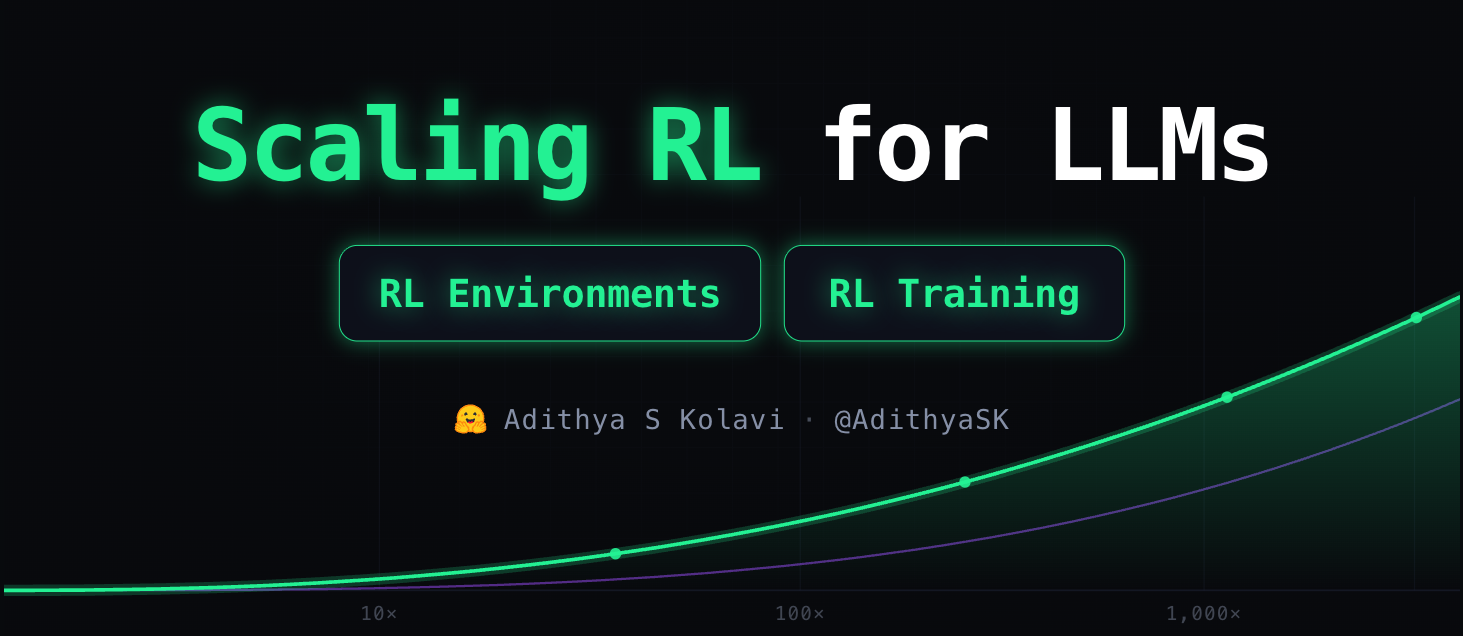
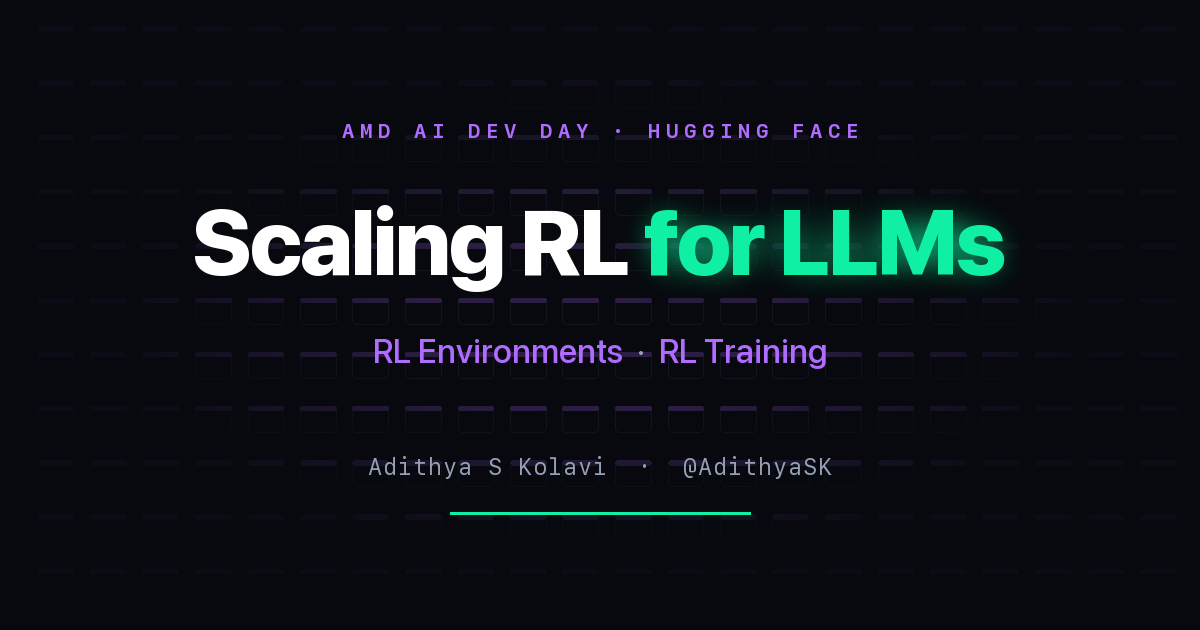
readme: 3-column content grid, richer projects section, recipes-wanted
- content grid is now 3 columns; Multi-Harness Training is live on a Space
  (AdithyaSK/multi-harness-training-slides), so it links and badges as deployed
- projects section: generated table now carries env / framework / Space counts,
  plus a per-project card with the environment breakdown for 00 and the
  training story for 01
- move "which framework should I use?" out of the root README into project 00,
  merged with the overlapping Framework Cheat Sheet into one table
- CONTRIBUTING leads with an explicit call for end-to-end recipes: what one is,
  that partial ones are welcome, and which domains are uncovered. Adds an
  "adding a project" section. Root README echoes the ask.

Deck social cards, both regenerated from the decks themselves:
- scaling-rl-amd still had the 101 deck's hard-coded card content from when it
  was forked, so it rendered "RL Environments 101"; now renders its own talk
- multi-harness card regenerated with the accent/fit fix

Claude-Session: https://claude.ai/code/session_01MLWbS4j4R3EB69BpMYbjvc

diff --git a/content/slides/scaling-rl-amd/scripts/make_og.py b/content/slides/scaling-rl-amd/scripts/make_og.py
@@ -119,19 +119,19 @@ def main():
     f_sub = font(SFNS, 34, "Medium")
     f_by = font(MONO, 23, "Regular")
 
-    eyebrow = "HUGGING FACE · RL ENVIRONMENTS"
+    eyebrow = "AMD AI DEV DAY · HUGGING FACE"
     ey_w = text_width(d, eyebrow, f_eyebrow, 6)
     draw_tracked(d, ((W - ey_w) / 2, 118), eyebrow, f_eyebrow, LAVENDER, 6)
 
-    title = [("RL Environments ", f_title, WHITE), ("101", f_title, EMERALD)]
-    glow(img, lambda dd: draw_runs(dd, 186, [("RL Environments ", f_title, (0, 0, 0, 0)), ("101", f_title, EMERALD)], -2))
+    title = [("Scaling RL ", f_title, WHITE), ("for LLMs", f_title, EMERALD)]
+    glow(img, lambda dd: draw_runs(dd, 186, [("Scaling RL ", f_title, (0, 0, 0, 0)), ("for LLMs", f_title, EMERALD)], -2))
     d = ImageDraw.Draw(img)
     draw_runs(d, 186, title, -2)
 
     sub = [
-        ("From ", f_sub, TEXT_MUTED),
-        ("“What Is an Env?”", f_sub, LAVENDER),
-        (" to Training Your Own", f_sub, TEXT_MUTED),
+        ("RL Environments", f_sub, LAVENDER),
+        ("  ·  ", f_sub, TEXT_DIM),
+        ("RL Training", f_sub, LAVENDER),
     ]
     draw_runs(d, 330, sub)
 

diff --git a/tools/build_index.py b/tools/build_index.py
@@ -50,12 +50,26 @@ def load_projects() -> list[dict]:
 
 
 def render_projects_table(projects: list[dict]) -> str:
-    rows = ["| # | Project | What you get | Status |", "|---|---|---|---|"]
+    rows = [
+        "| # | Project | What you get | Envs | Frameworks | Deployed | Status |",
+        "|---|---|---|:--:|:--:|:--:|---|",
+    ]
     for p in projects:
         folder = p["_dir"].name
         num = folder.split("-", 1)[0]
+        envs = p.get("envs") or []
+        frameworks = {f for e in envs for f in (e.get("frameworks") or {})}
+        spaces = {
+            spec["space"]
+            for e in envs
+            for spec in (e.get("frameworks") or {}).values()
+            if spec.get("space")
+        }
         status = STATUS_ICON.get(p.get("status", ""), p.get("status", ""))
-        rows.append(f"| **{num}** | **[{p['title']}](./{folder}/)** | {p['tagline']} | {status} |")
+        rows.append(
+            f"| **{num}** | **[{p['title']}](./{folder}/)** | {p['tagline']} "
+            f"| {len(envs)} | {len(frameworks)} | {len(spaces)} | {status} |"
+        )
     return "\n".join(rows)
 
 

diff --git a/README.md b/README.md
@@ -57,46 +57,85 @@ demos on **[🤗 huggingface.co/HuggingEnvs](https://huggingface.co/HuggingEnvs)
 
 ## Projects
 
-Each numbered folder is self-contained — its own README, environments, and results. They read in order
-but stand alone.
+Each numbered folder is a **self-contained, end-to-end project** — its own environments, notebooks,
+results and README, plus the Hub repos it owns. They read in order but stand alone.
 
 <!-- BEGIN:projects -->
-| # | Project | What you get | Status |
-|---|---|---|---|
-| **00** | **[RL Environments 101](./00-environments-101/)** | Three environments, six frameworks, side by side. | ✅ stable |
-| **01** | **[LaTeX OCR](./01-latex-ocr/)** | Train Qwen3-VL-2B to read math images into LaTeX, with a verifiable reward. | 📓 notebook |
+| # | Project | What you get | Envs | Frameworks | Deployed | Status |
+|---|---|---|:--:|:--:|:--:|---|
+| **00** | **[RL Environments 101](./00-environments-101/)** | Three environments, six frameworks, side by side. | 3 | 6 | 8 | ✅ stable |
+| **01** | **[LaTeX OCR](./01-latex-ocr/)** | Train Qwen3-VL-2B to read math images into LaTeX, with a verifiable reward. | 1 | 1 | 1 | 📓 notebook |
 <!-- END:projects -->
-
----
-
-## Articles &amp; talks
-
-Long-form writing and conference decks. Sources live in [`content/`](./content/); each ships to the Hub
-as a Space.
 
 <table>
 <tr>
 <td width="50%" valign="top">
 
-<a href="https://huggingface.co/spaces/AdithyaSK/rl-environments-guide"><img src="./assets/content/guide.png" alt="The ultimate guide to RL environments: building and scaling them in the LLM era"></a>
+### [00 · RL Environments 101](./00-environments-101/)
 
-### [The ultimate guide to RL environments](https://huggingface.co/spaces/AdithyaSK/rl-environments-guide)
+**One env, six ways.** Three environments, each implemented six times — same logic, six framework
+dialects. Diff any two `server.py` files and the differences *are* the lesson.
 
-![Article](https://img.shields.io/badge/-article-4F46E5) ![Space](https://img.shields.io/badge/-live%20space-FFD21E)
+| Environment | Turns | Tools | Backend |
+|---|---|---|---|
+| [**Jupyter agent**](./00-environments-101/envs/jupyter/) | multi | 4 | E2B sandbox, real code execution |
+| [**Wordle**](./00-environments-101/envs/wordle/) | multi | 1 | pure Python, no backend |
+| [**Desktop**](./00-environments-101/envs/desktop/) | multi | 19 | E2B Desktop, vision-driven |
 
-Building and scaling RL environments in the LLM era. The anatomy of RL environment frameworks: how
-they're built, how rewards are wired, and how they scale to thousands of concurrent sessions.
-
-<sub>📂 [`content/articles/rl-environments-guide/`](./content/articles/rl-environments-guide/)</sub>
+Across `openenv` · `ors` · `nemo_gym` · `verifiers` · `skyrl_gym` · `gem` — 18 implementations, 8 of
+them deployed as Spaces you can hit right now.
 
 </td>
 <td width="50%" valign="top">
 
+### [01 · LaTeX OCR](./01-latex-ocr/)
+
+**The full loop.** Project 00 shows you what an environment *is*; this one takes a single environment
+all the way to a trained model.
+
+Qwen3-VL-2B learns to read rendered math into LaTeX with GRPO, scored by a reward served from a live
+[OpenEnv Space](https://huggingface.co/spaces/AdithyaSK/latex-ocr-env). Correctness is checkable —
+render the prediction, compare — so the reward is honest and there is very little to game.
+
+Runs on a GPU you spin up in [one command](#quickstart). No cluster, no local GPU.
+
+</td>
+</tr>
+</table>
+
+> **More coming.** Each new project is another end-to-end recipe: an environment, a training run, and
+> the artifacts on the Hub. [Proposals and contributions welcome →](./CONTRIBUTING.md)
+
+---
+
+## Articles &amp; talks
+
+Long-form writing and conference talks. Sources live in [`content/`](./content/); each one ships to the
+Hub as a Space.
+
+<table>
+<tr>
+<td width="33%" valign="top">
+
+<a href="https://huggingface.co/spaces/AdithyaSK/rl-environments-guide"><img src="./assets/content/guide.png" alt="The ultimate guide to RL environments: building and scaling them in the LLM era"></a>
+
+#### [The Ultimate Guide to RL Environments](https://huggingface.co/spaces/AdithyaSK/rl-environments-guide)
+
+![Article](https://img.shields.io/badge/-article-4F46E5) ![Live](https://img.shields.io/badge/-live%20space-FFD21E)
+
+Building and scaling RL environments in the LLM era — how frameworks are built, how rewards are
+wired, and how they scale to thousands of concurrent sessions.
+
+<sub>📂 [`content/articles/rl-environments-guide/`](./content/articles/rl-environments-guide/)</sub>
+
+</td>
+<td width="33%" valign="top">
+
 <a href="https://huggingface.co/spaces/AdithyaSK/rl-environments-101-slides"><img src="./assets/content/rl-environments-101.png" alt="RL Environments 101 — from what is an env to training your own"></a>
 
-### [RL Environments 101](https://huggingface.co/spaces/AdithyaSK/rl-environments-101-slides)
+#### [RL Environments 101](https://huggingface.co/spaces/AdithyaSK/rl-environments-101-slides)
 
-![Talk](https://img.shields.io/badge/-talk-10B981) ![Space](https://img.shields.io/badge/-live%20space-FFD21E)
+![Talk](https://img.shields.io/badge/-talk-10B981) ![Live](https://img.shields.io/badge/-live%20space-FFD21E)
 
 From "what is an env?" to training your own. RL fundamentals → environment anatomy → OpenEnv →
 training with TRL. The original 30-minute talk.
@@ -104,35 +143,39 @@ training with TRL. The original 30-minute talk.
 <sub>📂 [`content/slides/rl-environments-101/`](./content/slides/rl-environments-101/)</sub>
 
 </td>
-</tr>
-<tr>
-<td width="50%" valign="top">
+<td width="33%" valign="top">
 
 <a href="https://huggingface.co/spaces/AdithyaSK/scaling-rl-for-llms-amd-ai-dev-day"><img src="./assets/content/scaling-rl.png" alt="Scaling RL for LLMs — RL environments and RL training, AMD AI Dev Day"></a>
 
-### [Scaling RL for LLMs](https://huggingface.co/spaces/AdithyaSK/scaling-rl-for-llms-amd-ai-dev-day)
+#### [Scaling RL for LLMs](https://huggingface.co/spaces/AdithyaSK/scaling-rl-for-llms-amd-ai-dev-day)
 
-![Talk](https://img.shields.io/badge/-talk-10B981) ![Space](https://img.shields.io/badge/-live%20space-FFD21E) ![AMD AI Dev Day](https://img.shields.io/badge/-AMD%20AI%20Dev%20Day-ED1C24)
+![Talk](https://img.shields.io/badge/-talk-10B981) ![Live](https://img.shields.io/badge/-live%20space-FFD21E) ![AMD AI Dev Day](https://img.shields.io/badge/-AMD%20AI%20Dev%20Day-ED1C24)
 
-RL environments and RL training — what an environment actually is, how reward hacking happens, and
-how to build and train against your own. The 20-minute cut.
+What an environment actually is, how reward hacking happens, and how to build and train against your
+own. The 20-minute cut, for AMD AI Dev Day.
 
 <sub>📂 [`content/slides/scaling-rl-amd/`](./content/slides/scaling-rl-amd/)</sub>
 
 </td>
-<td width="50%" valign="top">
+</tr>
+<tr>
+<td width="33%" valign="top">
 
-<img src="./assets/content/multi-harness-training.png" alt="Multi-Harness Training — OpenEnv and Harbor">
+<a href="https://huggingface.co/spaces/AdithyaSK/multi-harness-training-slides"><img src="./assets/content/multi-harness-training.png" alt="Multi-Harness Training — OpenEnv and Harbor"></a>
 
-### Multi-Harness Training
+#### [Multi-Harness Training](https://huggingface.co/spaces/AdithyaSK/multi-harness-training-slides)
 
-![Talk](https://img.shields.io/badge/-talk-10B981) ![Not deployed](https://img.shields.io/badge/-not%20deployed-6B7280)
+![Talk](https://img.shields.io/badge/-talk-10B981) ![Live](https://img.shields.io/badge/-live%20space-FFD21E)
 
 OpenEnv × Harbor — why an environment's failure model decides whether it can be trained against:
 in-process agent loops vs. an HTTP boundary, and what it takes to capture trainable tokens.
 
 <sub>📂 [`content/slides/multi-harness-training/`](./content/slides/multi-harness-training/)</sub>
 
+</td>
+<td width="33%" valign="top">
+</td>
+<td width="33%" valign="top">
 </td>
 </tr>
 </table>
@@ -185,24 +228,6 @@ npx skills add adithya-s-k/HuggingEnvs
 
 ---
 
-## Which framework should I use?
-
-The short version. The long version is [project 00](./00-environments-101/) and
-[the guide](https://huggingface.co/spaces/AdithyaSK/rl-environments-guide).
-
-| Framework | Type | Reward model | Deployable | Best for |
-|---|---|---|---|---|
-| **OpenEnv** | HTTP (MCP) | external | ✅ Docker / HF Space | Long-running sandboxes, MCP ecosystem |
-| **ORS** | HTTP (REST+SSE) | per tool call | ✅ Docker / HF Space | Server-decided rewards, OpenReward marketplace |
-| **NeMo Gym** | HTTP (REST) | post-episode `/verify` | ✅ Docker / HF Space | NVIDIA stack, Ray-based scaling |
-| **Verifiers** | in-process | `Rubric` system | ⚙ | Fast prototyping, bundled datasets |
-| **SkyRL Gym** | in-process | `step()` returns | ⚙ | Gym-style RL, SkyRL training stack |
-| **GEM** | in-process | `step()` returns | ⚙ | Gymnasium API, pure-Python games |
-
-**Rule of thumb:** prototype in Verifiers, productionise in OpenEnv or ORS.
-
----
-
 ## Repository layout
 
 ```
@@ -224,8 +249,16 @@ Inside a project the folders always mean the same thing: `envs/` (implementation
 
 ## Contributing
 
-New environments, new framework ports, and reproductions that disagree with ours are all welcome —
-see **[CONTRIBUTING.md](./CONTRIBUTING.md)**. The fastest path is the `rl-env-from-description` skill.
+**We're actively looking for new end-to-end recipes** — a task, an environment, a training run, and
+honest results. Domains we don't cover yet are especially welcome: web browsing, SQL, games,
+robotics sims, tool-use over real APIs, long-horizon software engineering.
+
+Half-finished counts. A recipe with real numbers and a gap beats a polished one nobody ran — open an
+issue and we'll help you land it. New framework ports, reproductions that *disagree* with ours, and
+corrections to the guide are all just as welcome.
+
+See **[CONTRIBUTING.md](./CONTRIBUTING.md)**. The fastest path to a new environment is the
+`rl-env-from-description` skill.
 
 ## Citation
 

diff --git a/00-environments-101/README.md b/00-environments-101/README.md
@@ -89,18 +89,25 @@ What is implemented and verified, per env and framework. Generated from `project
 | **desktop** | 19 | `e2b-desktop` | ✅ | ✅ | ⚙ deployed | ✅ | ✅ | ✅ |
 <!-- END:matrix -->
 
-## Framework Cheat Sheet
+## Which framework should I use?
 
-| Framework  | Type             | Tool syntax            | Reward model     | Deployable | Best for |
-|------------|------------------|------------------------|------------------|------------|----------|
-| **OpenEnv**    | HTTP (MCP)       | `@mcp.tool`            | External         | ✅ Docker / HF Space | Long-running sandboxes; MCP ecosystem |
-| **ORS**        | HTTP (REST+SSE)  | `@tool` + Pydantic     | Per-tool-call    | ✅ Docker / HF Space / OpenReward | Server-decided rewards; OpenReward marketplace |
-| **NeMo Gym**   | HTTP (REST)      | `app.post()`           | Post-episode `/verify` | ✅ Docker / HF Space | NVIDIA stack; Ray-based scaling |
-| **Verifiers**  | in-process       | plain Python `def`     | `Rubric` system  | ⚙          | Fast prototyping; bundled datasets |
-| **SkyRL Gym**  | in-process       | inside `step()`        | `step()` returns | ⚙          | Gym-style RL; SkyRL training stack |
-| **GEM**        | in-process       | inside `step()`        | `step()` returns | ⚙          | Gymnasium API; pure-Python games |
+The cheat sheet keeps the `Tool syntax` column, which is where the six frameworks differ most in
+day-to-day code.
 
-HTTP frameworks (OpenEnv, ORS, NeMo Gym) wrap a remote server. In-process frameworks (Verifiers, SkyRL, GEM) run the env class in the same Python process as the trainer or rollout script.
+| Framework | Type | Tool syntax | Reward model | Deployable | Best for |
+|---|---|---|---|---|---|
+| **OpenEnv** | HTTP (MCP) | `@mcp.tool` | external | ✅ Docker / HF Space | Long-running sandboxes; MCP ecosystem |
+| **ORS** | HTTP (REST+SSE) | `@tool` + Pydantic | per tool call | ✅ Docker / HF Space / OpenReward | Server-decided rewards; OpenReward marketplace |
+| **NeMo Gym** | HTTP (REST) | `app.post()` | post-episode `/verify` | ✅ Docker / HF Space | NVIDIA stack; Ray-based scaling |
+| **Verifiers** | in-process | plain Python `def` | `Rubric` system | ⚙ | Fast prototyping; bundled datasets |
+| **SkyRL Gym** | in-process | inside `step()` | `step()` returns | ⚙ | Gym-style RL; SkyRL training stack |
+| **GEM** | in-process | inside `step()` | `step()` returns | ⚙ | Gymnasium API; pure-Python games |
+
+HTTP frameworks (OpenEnv, ORS, NeMo Gym) wrap a remote server. In-process frameworks (Verifiers,
+SkyRL, GEM) run the env class in the same Python process as the trainer or rollout script.
+
+**Rule of thumb:** prototype in Verifiers, productionise in OpenEnv or ORS. The long version is the
+rest of this page and [the guide](https://huggingface.co/spaces/AdithyaSK/rl-environments-guide).
 
 ---
 

diff --git a/CONTRIBUTING.md b/CONTRIBUTING.md
@@ -1,12 +1,36 @@
 # Contributing
 
-The most useful contributions here, roughly in order:
+**We are actively looking for new end-to-end recipes.** That's the single most valuable thing you can
+contribute here, and it's what this repo is for.
 
-1. **A new environment** — a task nobody has modelled yet.
+## What an end-to-end recipe is
+
+A complete, reproducible path from *"here is a task"* to *"here is a trained model"*:
+
+1. **An environment** — the task, the tools, the observations, the reward.
+2. **A rollout** that demonstrably works against it, with a trajectory a human can read.
+3. **A training run** — config, launch command, hardware, and roughly what it cost.
+4. **Results** — the curve, and the honest version of it. What worked, what didn't, where the model
+   found a shortcut you didn't intend.
+5. **Artifacts on the Hub** — the environment Space, the task dataset, the trained model.
+
+If you have all five, open a PR adding a new numbered project folder. If you have two or three of
+them, open an issue anyway — a half-finished recipe with real numbers beats a polished one that
+nobody ran. We'd rather help you land it than never see it.
+
+Recipes on domains we don't cover yet are especially welcome: web browsing, SQL and data analysis,
+games, robotics simulators, tool-use over real APIs, multi-agent setups, long-horizon software
+engineering. Different base models and different trainers are welcome too — the point is coverage of
+the *space*, not one blessed stack.
+
+## Everything else that helps
+
+1. **A new environment**, even without the training half.
 2. **A new framework port** of an environment that already exists.
 3. **A reproduction that disagrees with ours.** If you ran a recipe and got a different curve, that's
-   a bug report we want.
+   a bug report we want — please include your config and hardware.
 4. **Fixes to rollouts that broke.** Frameworks move fast; things rot.
+5. **Corrections to the guide or the slides.** If an explanation is wrong or unclear, say so.
 
 ## Repository shape
 
@@ -25,6 +49,23 @@ HuggingEnvs/
 ```
 
 Those folder names mean the same thing in every project. Keep it that way.
+
+## Adding a project
+
+A project is a top-level numbered folder. Copy the shape of an existing one:
+
+```
+NN-<name>/
+├── README.md       what it is, how to run it, what the results were
+├── project.yaml    manifest — Hub links and per-framework status
+├── envs/<env>/     core/ + one folder per framework
+├── train/          config + launch script
+├── notebooks/
+└── results/        curves, and links to the Hub artifacts
+```
+
+Pick the next free number. Register the Hub repos you own in `project.yaml`, then run
+`python3 tools/build_index.py` so the root README picks it up.
 
 ## Adding an environment
 

diff --git a/content/slides/multi-harness-training/space.md b/content/slides/multi-harness-training/space.md
@@ -1,20 +1,22 @@
 ---
-title: Multi-Harness Training — Slides
+title: Multi-Harness Training
 emoji: 🔀
-colorFrom: blue
-colorTo: indigo
+colorFrom: indigo
+colorTo: purple
 sdk: static
 app_file: index.html
 pinned: false
-license: mit
-short_description: OpenEnv × Harbor — why an env's failure model decides trainability
+short_description: OpenEnv x Harbor - trainable tokens from any coding agent
 ---
 
 # Multi-Harness Training — OpenEnv × Harbor
 
-Talk slides by [Adithya S Kolavi](https://huggingface.co/AdithyaSK).
+Why OpenEnv belongs between a trainer and Harbor, and how a capture proxy turns any
+black-box coding agent (`claude-code`, `codex`, `opencode`, and 34 more) into token ids
+and logprobs you can train on.
 
-Why an environment's failure model decides whether it can be trained against:
-in-process agent loops vs. an HTTP boundary, and what it takes to capture trainable tokens.
+Download: [PDF](./Multi-Harness-Training-OpenEnv-Harbor.pdf) · [PPTX](./Multi-Harness-Training-OpenEnv-Harbor.pptx)
 
-Source: [HuggingEnvs](https://github.com/adithya-s-k/HuggingEnvs) · `content/slides/multi-harness-training/`
+Built with [research-presentation-template](https://github.com/adithya-s-k/research-presentation-template).
+
+Keys: `←/→` navigate · `t` dark/light · `f` fullscreen · `p` print to PDF · `⚙` slide list.

diff --git a/content/README.md b/content/README.md
@@ -25,7 +25,7 @@ Prose lives in `app/src/content/` — `article.mdx`, `chapters/`, `embeds/`, `bi
 |---|---|---|
 | **RL Environments 101** | [`slides/rl-environments-101/`](./slides/rl-environments-101/) | [▶ Space](https://huggingface.co/spaces/AdithyaSK/rl-environments-101-slides) |
 | **Scaling RL for LLMs** (AMD AI Dev Day) | [`slides/scaling-rl-amd/`](./slides/scaling-rl-amd/) | [▶ Space](https://huggingface.co/spaces/AdithyaSK/scaling-rl-for-llms-amd-ai-dev-day) |
-| **Multi-Harness Training** (OpenEnv × Harbor) | [`slides/multi-harness-training/`](./slides/multi-harness-training/) | — |
+| **Multi-Harness Training** (OpenEnv × Harbor) | [`slides/multi-harness-training/`](./slides/multi-harness-training/) | [▶ Space](https://huggingface.co/spaces/AdithyaSK/multi-harness-training-slides) |
 
 React components on a fixed 1280×720 canvas that scales to any projector, dark/light themes,
 arrow-key navigation. All three bind port 5173, so run one at a time.
